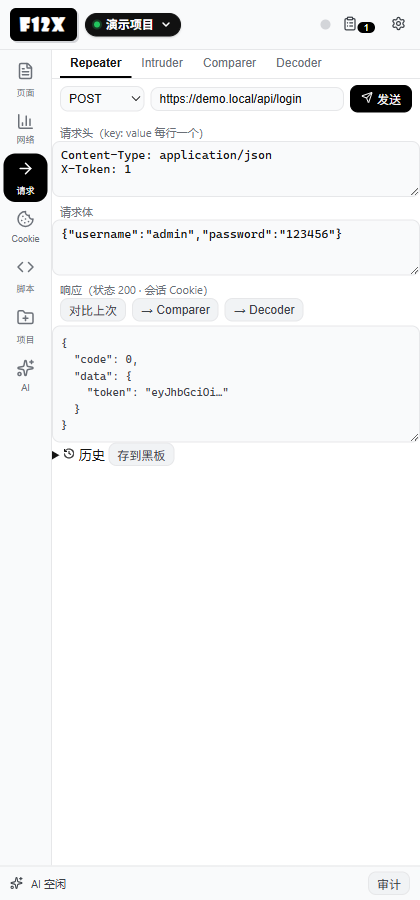
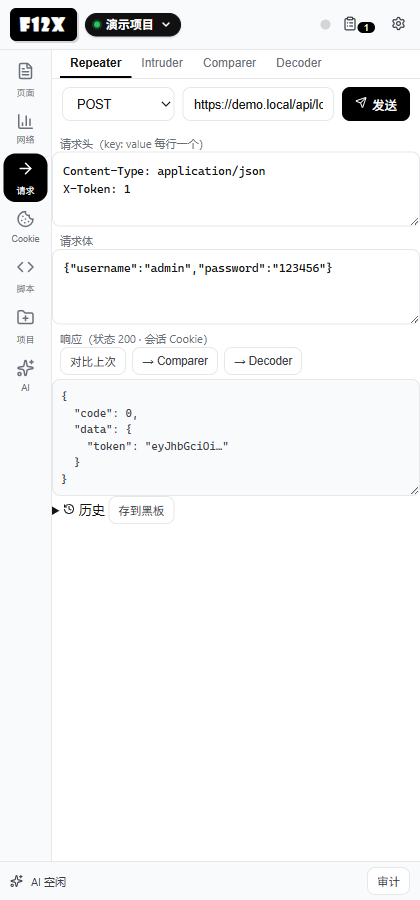
style: 统一全站输入控件与关键布局
- 控件层：输入/下拉/数字/代码框统一 34px 高、8px 圆角、白底、品牌蓝焦点环（3px）；textarea 最小 62px、代码框 68px；ctrl-btn 34px、mini-btn 28px，与输入同基线
- 网络：筛选条改两行栅格（URL / 元数据搜索各占一行，方法/状态/域/类型/列固定列宽）；列配置菜单锚定到筛选条；占位文案缩短
- AI：输入区顶部可换行，模式分段 30px 与模型下拉同高，模型下拉弹性占满，提示独占一行；输入框重复声明清理
- 项目/Issue/模板：裸 select 统一为 select-mini；添加事实/添加模板/保存 Issue 改为主操作按钮；表单间距 9px、Issue 标签 11.5px
- dev：p6 适配会话命名弹层
验证：dev/run.mjs 76/76；真实 UI：网络控件高度均 34、焦点环 rgb(65,118,230)、AI 模式/模型同高 30、Issue 下拉 34；p4/p5/p6/p8/ai_pick 全过，0 pageerror；手册截图全部重生成。

diff --git a/sidepanel/styles.css b/sidepanel/styles.css
@@ -34,38 +34,50 @@ body {
 .icon-btn:hover { color: var(--text-1); background: var(--acc-bg); }
 
 .mini-btn {
-  background: var(--surface-3); border: 1px solid var(--surface-4); color: var(--text-2);
-  border-radius: var(--radius-xs); padding: 2px 8px; font-size: 12px; cursor: pointer;
+  height: 28px; box-sizing: border-box;
+  background: var(--surface-1); border: 1px solid var(--surface-4); color: var(--text-2);
+  border-radius: 7px; padding: 0 9px; font-size: 11.5px; cursor: pointer;
+  transition: background .12s, color .12s;
 }
 .mini-btn:hover { background: var(--surface-4); color: var(--text-1); }
 .mini-btn.danger { color: #c62828; }
 .mini-btn.danger:hover { background: rgba(198, 40, 40, .12); color: #e53935; }
 
 .ctrl-btn {
-  background: var(--surface-3); border: 1px solid var(--surface-4); color: var(--text-1);
-  border-radius: var(--radius-xs); padding: 4px 10px; font-size: 12px; cursor: pointer;
-  display: inline-flex; align-items: center; gap: 4px; white-space: nowrap;
+  height: 34px; box-sizing: border-box;
+  background: var(--surface-1); border: 1px solid var(--surface-4); color: var(--text-1);
+  border-radius: 8px; padding: 0 12px; font-size: 12.5px; font-weight: 500; cursor: pointer;
+  display: inline-flex; align-items: center; gap: 5px; white-space: nowrap;
+  transition: background .12s, border-color .12s, color .12s;
 }
 .ctrl-btn:hover { background: var(--surface-4); }
 .ctrl-btn.primary { background: #000; color: #fff; border-color: #000; }
 .ctrl-btn.primary:hover { background: #333; }
 .ctrl-btn.active { background: #000; color: #fff; border-color: #000; }
 
+/* 统一控件层：输入 / 下拉 / 数字 / 代码框 */
 .text-input, .select-mini, .num-input {
-  background: var(--surface-2); border: 1px solid var(--surface-4); color: var(--text-1);
-  border-radius: var(--radius-xs); padding: 4px 8px; font-size: 12px; outline: none;
+  height: 34px; box-sizing: border-box;
+  background: var(--surface-1); border: 1px solid var(--surface-4); color: var(--text-1);
+  border-radius: 8px; padding: 0 10px; font-size: 12.5px; outline: none;
+  transition: border-color .12s, box-shadow .12s, background .12s;
 }
-.text-input:focus { border-color: var(--text-2); }
-.text-input::placeholder { color: var(--text-4); }
-.select-mini { padding: 4px 4px; }
-.num-input { width: 52px; padding: 4px 4px; }
+.text-input:hover, .select-mini:hover, .num-input:hover { border-color: var(--text-4); }
+.text-input:focus, .select-mini:focus, .num-input:focus, .code-input:focus {
+  border-color: var(--brand, #4176e6); box-shadow: 0 0 0 3px rgba(65, 118, 230, .12);
+}
+.text-input::placeholder, .code-input::placeholder { color: var(--text-4); }
+.select-mini { padding-right: 24px; }
+.num-input { width: 64px; }
+textarea.text-input { height: auto; min-height: 62px; padding: 8px 10px; line-height: 1.6; resize: vertical; font-size: 12.5px; }
 
 .code-input {
-  width: 100%; background: var(--surface-2); border: 1px solid var(--surface-4);
-  color: var(--text-1); border-radius: var(--radius-xs); padding: 6px 8px;
-  font-family: var(--mono); font-size: 12px; resize: vertical; outline: none;
+  width: 100%; box-sizing: border-box; min-height: 68px;
+  background: var(--surface-1); border: 1px solid var(--surface-4);
+  color: var(--text-1); border-radius: 8px; padding: 9px 10px;
+  font-family: var(--mono); font-size: 11.5px; line-height: 1.6; resize: vertical; outline: none;
+  transition: border-color .12s, box-shadow .12s;
 }
-.code-input:focus { border-color: var(--text-2); }
 
 .result-box {
   background: var(--surface-2); border: 1px solid var(--surface-4); border-radius: var(--radius-xs);
@@ -80,12 +92,12 @@ body {
   color: var(--text-4); text-align: center; padding: 24px 12px; font-size: 12px;
 }
 
-.toolbar { display: flex; align-items: center; gap: 6px; padding: 6px 8px; }
+.toolbar { display: flex; align-items: center; gap: 8px; padding: 8px 10px; }
 .toolbar.wrap { flex-wrap: wrap; }
 .toolbar .flex { flex: 1; min-width: 0; }
 
-.mini-label { display: inline-flex; align-items: center; gap: 4px; font-size: 12px; color: var(--text-2); white-space: nowrap; }
-.mini-label input[type="checkbox"] { accent-color: #000; }
+.mini-label { display: inline-flex; align-items: center; gap: 5px; font-size: 11.5px; color: var(--text-3); white-space: nowrap; }
+.mini-label input[type="checkbox"] { accent-color: var(--brand, #4176e6); width: 14px; height: 14px; }
 
 /* ---------- Header ---------- */
 #header {
@@ -143,9 +155,9 @@ body {
 .tabs .tab.active { color: var(--text-1); border-bottom-color: #000; font-weight: 600; }
 
 /* ---------- 分段按钮（拦截模式） ---------- */
-.seg { display: inline-flex; border: 1px solid var(--surface-4); border-radius: var(--radius-xs); overflow: hidden; }
-.seg-btn { background: var(--surface-2); border: none; color: var(--text-2); font-size: 12px; padding: 4px 8px; cursor: pointer; }
-.seg-btn:hover { background: var(--surface-3); }
+.seg { display: inline-flex; align-items: center; height: 34px; box-sizing: border-box; border: 1px solid var(--surface-4); border-radius: 8px; overflow: hidden; background: var(--surface-1); }
+.seg-btn { height: 100%; display: inline-flex; align-items: center; background: transparent; border: none; color: var(--text-2); font-size: 12.5px; padding: 0 12px; cursor: pointer; }
+.seg-btn:hover { background: var(--surface-2); }
 .seg-btn.active { background: #000; color: #fff; }
 .seg-btn.danger.active { background: #fff; color: #000; box-shadow: inset 0 0 0 2px #000; }
 
@@ -473,22 +485,24 @@ body.resizing-h { cursor: ew-resize !important; user-select: none; }
 .chat-typing::after { content: ""; animation: aiTyping 1.2s steps(4, end) infinite; }
 @keyframes aiTyping { 0% { content: ""; } 25% { content: "·"; } 50% { content: "··"; } 75% { content: "···"; } }
 /* 底部输入 */
-.ai-composer { flex: none; border-top: 1px solid var(--surface-4); padding: 6px 8px 8px; display: flex; flex-direction: column; gap: 6px; }
-.ai-composer-top { display: flex; align-items: center; gap: 6px; }
-.ai-mode-seg { display: inline-flex; flex: none; border: 1px solid var(--surface-4); border-radius: 6px; overflow: hidden; background: var(--surface-3); }
-.ai-mode-seg .mode-btn { border: none; background: transparent; color: var(--text-3); font-size: 11px; padding: 2px 8px; cursor: pointer; line-height: 1.6; }
+.ai-composer { flex: none; border-top: 1px solid var(--surface-4); padding: 8px 10px 10px; display: flex; flex-direction: column; gap: 6px; }
+.ai-composer-top { display: flex; align-items: center; gap: 8px; flex-wrap: wrap; }
+.ai-mode-seg { display: inline-flex; align-items: center; height: 30px; box-sizing: border-box; flex: none; border: 1px solid var(--surface-4); border-radius: 8px; overflow: hidden; background: var(--surface-1); }
+.ai-mode-seg .mode-btn { height: 100%; display: inline-flex; align-items: center; border: none; background: transparent; color: var(--text-3); font-size: 11.5px; padding: 0 10px; cursor: pointer; line-height: 1.4; }
 .ai-mode-seg .mode-btn + .mode-btn { border-left: 1px solid var(--surface-4); }
 .ai-mode-seg .mode-btn.active { background: var(--brand); color: #fff; }
 .ai-input {
-  width: 100%; resize: none; background: var(--surface-2); border: 1px solid var(--surface-4);
-  color: var(--text-1); border-radius: var(--radius-xs); padding: 6px 8px; font-size: 12px;
-  font-family: inherit; outline: none; max-height: 120px;
+  width: 100%; min-height: 62px; box-sizing: border-box;
+  background: var(--surface-1); border: 1px solid var(--surface-4); color: var(--text-1);
+  border-radius: 8px; padding: 9px 10px; font-size: 12.5px; line-height: 1.6;
+  resize: none; outline: none; transition: border-color .12s, box-shadow .12s;
 }
-.ai-input:focus { border-color: var(--text-2); }
+.ai-input:focus { border-color: var(--brand, #4176e6); box-shadow: 0 0 0 3px rgba(65, 118, 230, .14); }
 .ai-input::placeholder { color: var(--text-4); }
 .ai-composer-ops { display: flex; align-items: center; gap: 6px; }
-.ai-composer-hint { font-size: 10px; color: var(--text-4); overflow: hidden; text-overflow: ellipsis; white-space: nowrap; flex: 1; text-align: right; }
-.ai-model-sel { max-width: 128px; font-size: 11px; padding: 2px 4px; cursor: pointer; }
+.ai-composer-hint { flex: 1 1 100%; order: 9; font-size: 10px; color: var(--text-4); overflow: hidden; text-overflow: ellipsis; white-space: nowrap; text-align: left; }
+.ai-composer-hint:empty { display: none; }
+.ai-model-sel { flex: 1 1 120px; min-width: 0; max-width: none; height: 30px; font-size: 11.5px; padding: 0 22px 0 8px; cursor: pointer; }
 .ai-model-sel:disabled { opacity: .5; cursor: default; }
 
 /* 会话消息回看 */
@@ -1599,7 +1613,7 @@ body.resizing-h { cursor: ew-resize !important; user-select: none; }
 .issue-sub { font-weight:400; font-size:11px; color:var(--text-4,#999); }
 
 .issue-form { }
-.issue-lbl, .issue-field label { display:flex; flex-direction:column; gap:2px; font-size:10px; color:var(--text-4,#888); }
+.issue-lbl, .issue-field label { display:flex; flex-direction:column; gap:4px; font-size:11.5px; color:var(--text-3,#666); }
 .issue-field label.flex { flex:1; min-width:0; }
 .issue-field { align-items:flex-end; }
 
@@ -1761,8 +1775,9 @@ body {
 .project-actions-row { padding: 0 8px 6px; }
 .pj-desc { color: var(--text-3, #666); font-size: 10px; margin-top: 2px; white-space: nowrap; overflow: hidden; text-overflow: ellipsis; }
 .proj-conv { border: 1px solid var(--surface-4, #ddd); border-radius: 6px; padding: 6px 8px; margin: 6px 0; }
-.fact-new, .issue-editor, .tpl-new { display: flex; flex-direction: column; gap: 6px; margin-bottom: 10px; padding-bottom: 8px; border-bottom: 1px dashed var(--surface-4, #ddd); }
+.fact-new, .issue-editor, .tpl-new { display: flex; flex-direction: column; gap: 9px; margin-bottom: 10px; padding-bottom: 8px; border-bottom: 1px dashed var(--surface-4, #ddd); }
 .fact-new select, .issue-editor select, .tpl-new select, .fact-new textarea, .issue-editor textarea { width: 100%; }
+.fact-new .ctrl-btn, .tpl-new .ctrl-btn { align-self: flex-start; }
 .issue-editor .issue-row { display: flex; gap: 6px; }
 .issue-editor .issue-row select { flex: 1; }
 #proj-facts-list, #proj-issues-list, #proj-templates-list, #proj-convs-list { min-height: 40px; }
@@ -1808,3 +1823,32 @@ body {
 .sk-attr { color: #9a6700; }
 .sk-val { color: #1a7f37; }
 .sk-text { color: var(--text-2, #444); }
+
+/* 网络筛选：两行栅格，URL / 元数据搜索各占一整行 */
+#view-network .net-filters {
+  position: relative;
+  display: grid; grid-template-columns: minmax(0, 1fr) 78px 88px auto;
+  gap: 8px; padding: 8px 10px; align-items: center;
+}
+#view-network .net-filters #net-filter { grid-area: 1 / 1; }
+#view-network .net-filters #net-filter-method { grid-area: 1 / 2; }
+#view-network .net-filters #net-filter-status { grid-area: 1 / 3; }
+#view-network .net-filters #net-search { grid-area: 2 / 1; }
+#view-network .net-filters #net-filter-domain { grid-area: 2 / 2; }
+#view-network .net-filters #net-filter-type { grid-area: 2 / 3; }
+#view-network .net-filters #net-cols-btn { grid-area: 2 / 4; }
+#view-network .net-filters #net-cols-menu { grid-column: auto; right: 10px; }
+#view-network .net-filters .text-input, #view-network .net-filters .select-mini { padding-left: 8px; padding-right: 20px; font-size: 11.5px; }
+
+/* 统一控件层覆盖全局兜底（白底 + 品牌焦点环） */
+#app input:not([type="checkbox"]):not([type="radio"]):not([type="file"]),
+#app select, #app textarea {
+  background: var(--surface-1, #fff);
+}
+#app input:not([type="checkbox"]):not([type="radio"]):not([type="file"]):focus,
+#app select:focus, #app textarea:focus {
+  background: var(--surface-1, #fff);
+  border: 1px solid #4176e6;
+  box-shadow: 0 0 0 3px rgba(65, 118, 230, .14);
+}
+#view-network .net-filters .text-input { padding-right: 10px; }

diff --git a/sidepanel/index.html b/sidepanel/index.html
@@ -91,9 +91,9 @@
             <button id="net-refresh-btn" class="ctrl-btn" title="刷新列表"><span data-icon="refresh-cw" data-size="12"></span></button>
           </div>
           <!-- 过滤条 -->
-          <div class="toolbar wrap">
-            <input id="net-filter" class="text-input flex" placeholder="URL 正则过滤…" />
-            <input id="net-search" class="text-input flex" placeholder="元数据搜索（URL/请求头/响应头）…" />
+          <div class="toolbar wrap net-filters">
+            <input id="net-filter" class="text-input flex" placeholder="URL 正则…" />
+            <input id="net-search" class="text-input flex" placeholder="搜索 URL / 头 / 体…" />
             <select id="net-filter-method" class="select-mini">
               <option value="">方法</option><option>GET</option><option>POST</option><option>PUT</option><option>DELETE</option><option>OPTIONS</option>
             </select>
@@ -297,9 +297,9 @@
         <div id="proj-facts" class="proj-pane active">
           <div class="fact-new">
             <input id="pf-key" class="text-input" placeholder="key（如 endpoint|/api/login）" />
-            <select id="pf-cat"><option value="endpoint">接口</option><option value="credential">凭据</option><option value="finding">发现</option><option value="chain">利用链</option><option value="repeater">Repeater</option><option value="site">站点</option><option value="misc">其它</option></select>
+            <select id="pf-cat" class="select-mini"><option value="endpoint">接口</option><option value="credential">凭据</option><option value="finding">发现</option><option value="chain">利用链</option><option value="repeater">Repeater</option><option value="site">站点</option><option value="misc">其它</option></select>
             <textarea id="pf-sum" class="text-input" rows="2" placeholder="内容摘要（写清结论 / 参数 / 证据）"></textarea>
-            <button id="pf-add" class="ctrl-btn">添加事实</button>
+            <button id="pf-add" class="ctrl-btn primary">添加事实</button>
           </div>
           <div id="proj-facts-list"></div>
         </div>
@@ -307,24 +307,24 @@
           <div class="issue-editor">
             <input id="pi-title" class="text-input" placeholder="标题（必填）" />
             <div class="issue-row">
-              <select id="pi-sev"><option value="critical">严重</option><option value="high">高</option><option value="medium">中</option><option value="low">低</option><option value="info">信息</option></select>
-              <select id="pi-status"><option value="open">待处理</option><option value="confirmed">已确认</option><option value="fixed">已修复</option><option value="wontfix">不修复</option></select>
-              <select id="pi-method"><option value="">—</option><option>GET</option><option>POST</option><option>PUT</option><option>PATCH</option><option>DELETE</option><option>HEAD</option><option>OPTIONS</option></select>
+              <select id="pi-sev" class="select-mini"><option value="critical">严重</option><option value="high">高</option><option value="medium">中</option><option value="low">低</option><option value="info">信息</option></select>
+              <select id="pi-status" class="select-mini"><option value="open">待处理</option><option value="confirmed">已确认</option><option value="fixed">已修复</option><option value="wontfix">不修复</option></select>
+              <select id="pi-method" class="select-mini"><option value="">—</option><option>GET</option><option>POST</option><option>PUT</option><option>PATCH</option><option>DELETE</option><option>HEAD</option><option>OPTIONS</option></select>
             </div>
             <textarea id="pi-url" class="text-input" rows="2" placeholder="URL / 目标（必填）"></textarea>
             <textarea id="pi-desc" class="text-input" rows="2" placeholder="描述：影响 / 根因 / 复现步骤"></textarea>
             <textarea id="pi-evidence" class="text-input" rows="2" placeholder="证据：请求 / 响应 / POC（可选）"></textarea>
-            <div class="proj-actions"><button id="pi-save" class="ctrl-btn">保存 Issue</button><button id="pi-clear" class="mini-btn">清空</button></div>
+            <div class="proj-actions"><button id="pi-save" class="ctrl-btn primary">保存 Issue</button><button id="pi-clear" class="mini-btn">清空</button></div>
           </div>
           <div id="proj-issues-list"></div>
         </div>
         <div id="proj-templates" class="proj-pane">
           <div class="tpl-new">
             <input id="pt-name" class="text-input" placeholder="模板名称（必填）" />
-            <select id="pt-kind"><option value="dir_scan">目录扫描</option><option value="api_enum">接口枚举</option><option value="inject">注入验证</option><option value="fuzz">参数 Fuzz</option><option value="custom">自定义</option></select>
+            <select id="pt-kind" class="select-mini"><option value="dir_scan">目录扫描</option><option value="api_enum">接口枚举</option><option value="inject">注入验证</option><option value="fuzz">参数 Fuzz</option><option value="custom">自定义</option></select>
             <input id="pt-url" class="text-input" placeholder="目标 URL（可选）" />
             <textarea id="pt-ins" class="text-input" rows="2" placeholder="执行提示（会带给 AI）"></textarea>
-            <button id="pt-add" class="ctrl-btn">添加模板</button>
+            <button id="pt-add" class="ctrl-btn primary">添加模板</button>
           </div>
           <div id="proj-templates-list"></div>
         </div>
